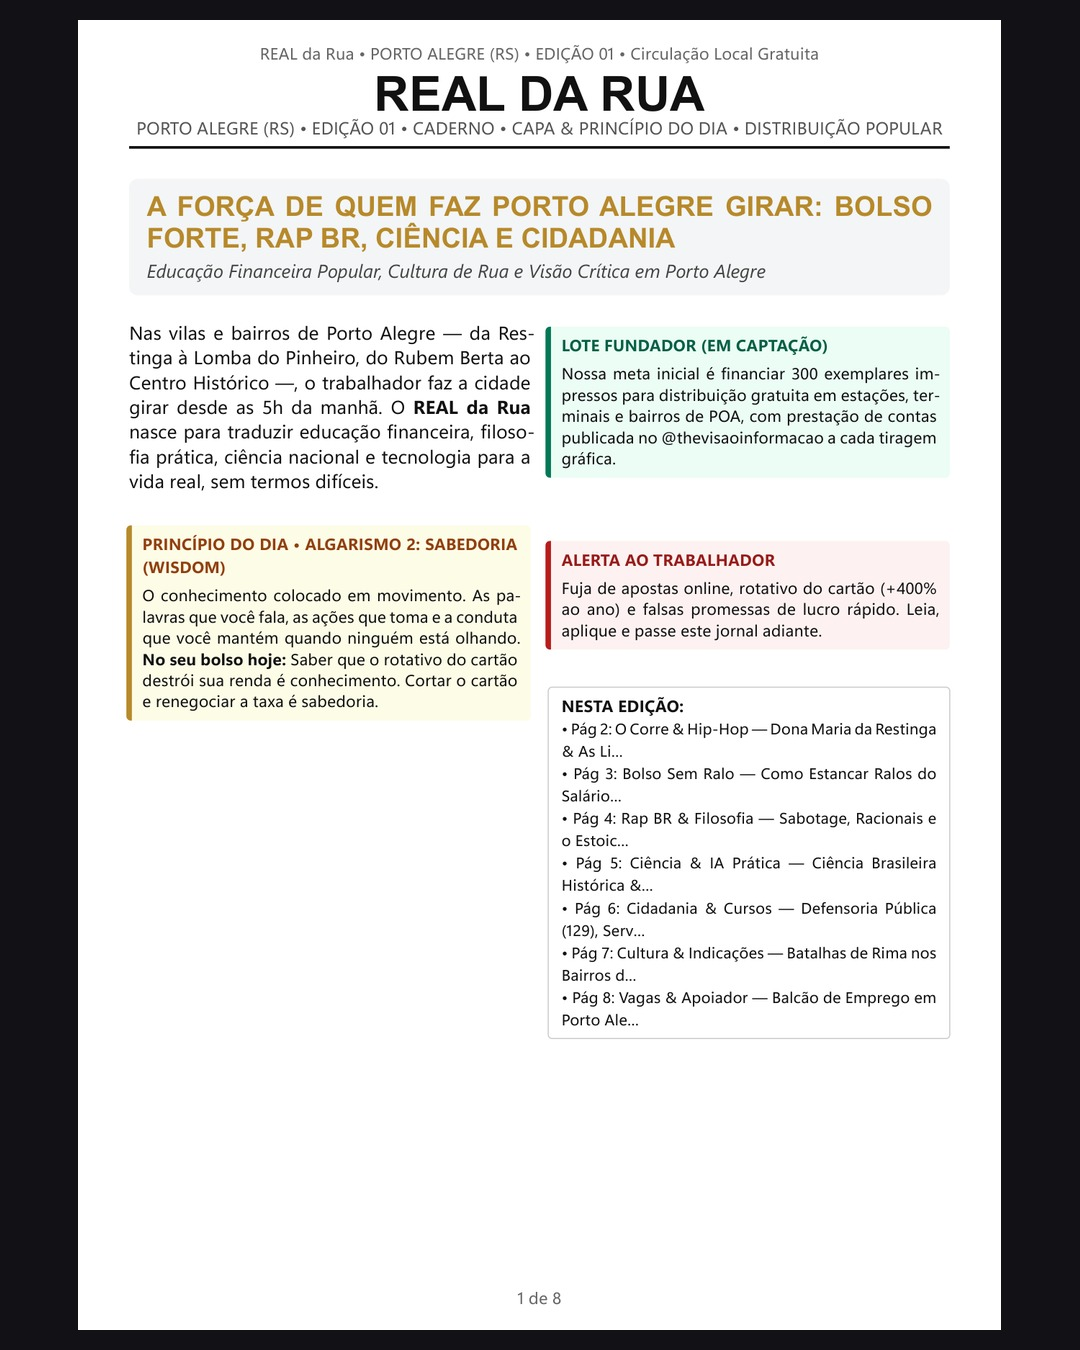
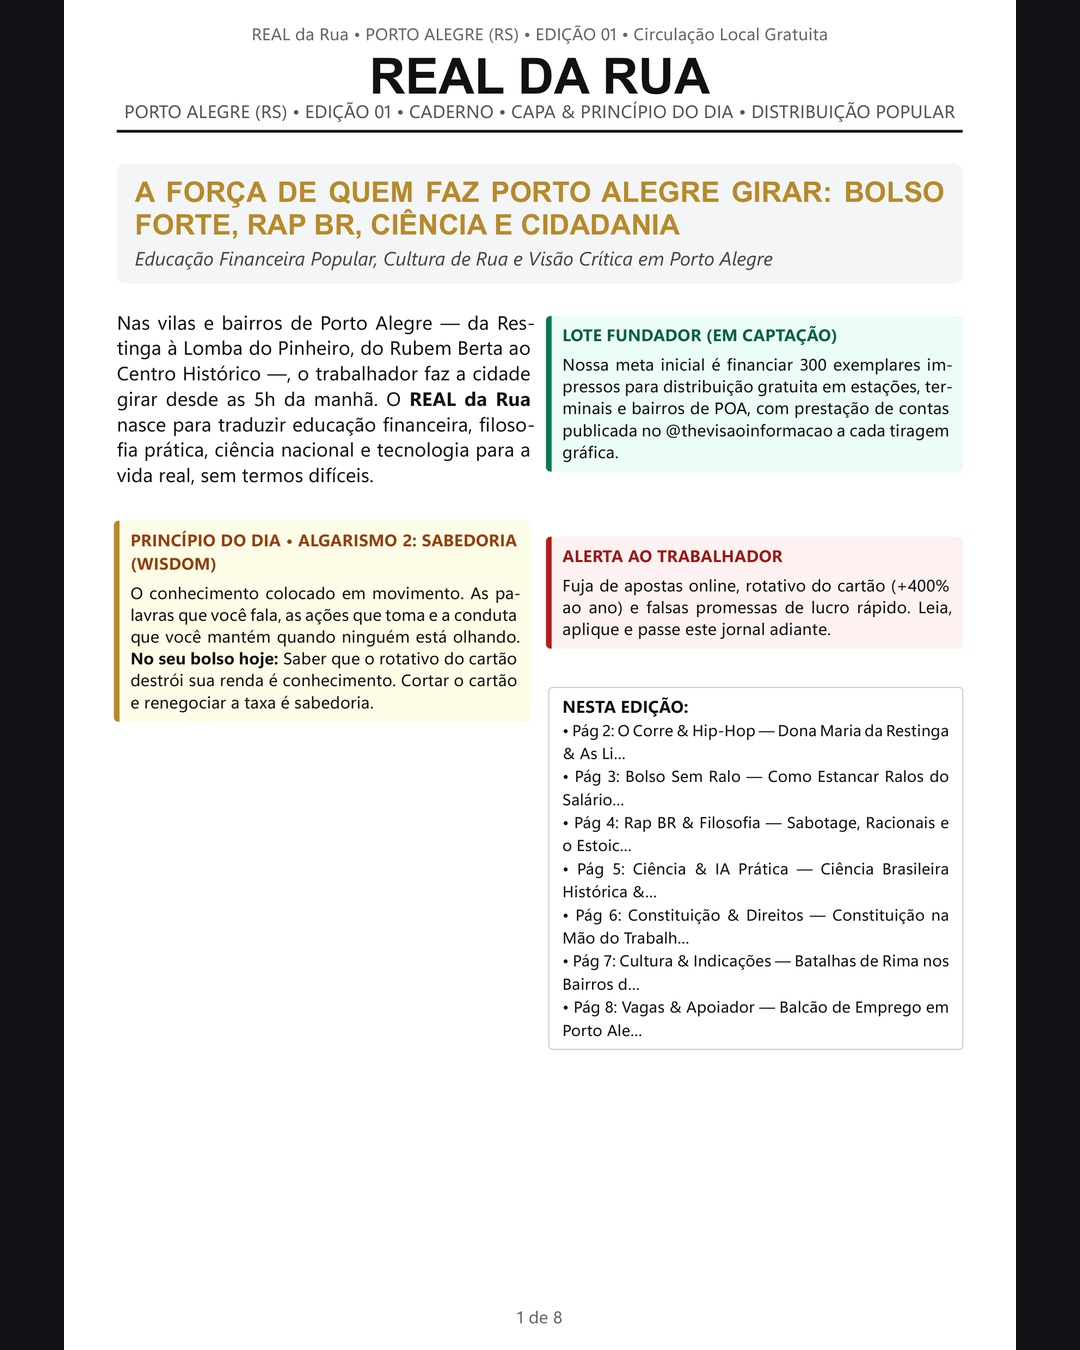
Jornal e LP: incluir caderno Constituicao Federal (Art. 5, 6, 7) e Direitos do Cidadao

Changed region(s): [[0.0611, 0.0, 0.9472, 1.0]]

diff --git a/do-primeiro-real/index.html b/do-primeiro-real/index.html
@@ -79,7 +79,7 @@
                     <p class="section-eyebrow">META INICIAL: 300 JORNAIS GRATUITOS EM POA</p>
                     <h3>O Jornal REAL da Rua <span class="gold-text">(Edição 01 — Porto Alegre)</span></h3>
                     <p>
-                        Enquanto os grandes jornais econômicos falam apenas para quem já tem milhões investidos, o <strong>Jornal REAL da Rua</strong> traduz economia prática, rap nacional, filosofia, ciência e tecnologia direto para quem acorda cedo e faz a cidade funcionar.
+                        Enquanto os grandes jornais econômicos falam apenas para quem já tem milhões investidos, o <strong>Jornal REAL da Rua</strong> traduz economia prática, Constituição e direitos do cidadão, rap nacional, filosofia, ciência e tecnologia direto para quem acorda cedo e faz a cidade funcionar.
                     </p>
                     <p>
                         Com 8 páginas diagramadas em padrão tabloide de bolso, a primeira edição reúne:
@@ -88,7 +88,7 @@
                         <li><span class="bullet">✓</span> <strong>Capa & Princípio do Dia:</strong> Impacto no bolso + Matemática Aplicada para a rotina.</li>
                         <li><span class="bullet">✓</span> <strong>Seu Bolso Sem Ralo & Rap/Filosofia:</strong> Escapando do rotativo de +400% a.a. e reflexão crítica de rua.</li>
                         <li><span class="bullet">✓</span> <strong>Ciência & IA no Celular:</strong> Uso prático e gratuito de tecnologia para currículo e contas.</li>
-                        <li><span class="bullet">✓</span> <strong>Cidadania & Apoio em POA:</strong> Defensoria RS (129), Fala POA (156), cursos IFRS/SENAI-RS e Sine.</li>
+                        <li><span class="bullet">✓</span> <strong>Constituição, Direitos & Apoio POA:</strong> Art. 5º, 6º e 7º da CF/88, CDC, Defensoria (129), 156, cursos IFRS/SENAI-RS e Sine.</li>
                     </ul>
                     <p style="font-size: 0.92rem; color: var(--emerald-light); font-weight: 600;">
                         Distribuição 100% gratuita para a população — viabilizada em captação pelo Lote Fundador do livro.

diff --git a/primeiro-real/index.html b/primeiro-real/index.html
@@ -79,7 +79,7 @@
                     <p class="section-eyebrow">META INICIAL: 300 JORNAIS GRATUITOS EM POA</p>
                     <h3>O Jornal REAL da Rua <span class="gold-text">(Edição 01 — Porto Alegre)</span></h3>
                     <p>
-                        Enquanto os grandes jornais econômicos falam apenas para quem já tem milhões investidos, o <strong>Jornal REAL da Rua</strong> traduz economia prática, rap nacional, filosofia, ciência e tecnologia direto para quem acorda cedo e faz a cidade funcionar.
+                        Enquanto os grandes jornais econômicos falam apenas para quem já tem milhões investidos, o <strong>Jornal REAL da Rua</strong> traduz economia prática, Constituição e direitos do cidadão, rap nacional, filosofia, ciência e tecnologia direto para quem acorda cedo e faz a cidade funcionar.
                     </p>
                     <p>
                         Com 8 páginas diagramadas em padrão tabloide de bolso, a primeira edição reúne:
@@ -88,7 +88,7 @@
                         <li><span class="bullet">✓</span> <strong>Capa & Princípio do Dia:</strong> Impacto no bolso + Matemática Aplicada para a rotina.</li>
                         <li><span class="bullet">✓</span> <strong>Seu Bolso Sem Ralo & Rap/Filosofia:</strong> Escapando do rotativo de +400% a.a. e reflexão crítica de rua.</li>
                         <li><span class="bullet">✓</span> <strong>Ciência & IA no Celular:</strong> Uso prático e gratuito de tecnologia para currículo e contas.</li>
-                        <li><span class="bullet">✓</span> <strong>Cidadania & Apoio em POA:</strong> Defensoria RS (129), Fala POA (156), cursos IFRS/SENAI-RS e Sine.</li>
+                        <li><span class="bullet">✓</span> <strong>Constituição, Direitos & Apoio POA:</strong> Art. 5º, 6º e 7º da CF/88, CDC, Defensoria (129), 156, cursos IFRS/SENAI-RS e Sine.</li>
                     </ul>
                     <p style="font-size: 0.92rem; color: var(--emerald-light); font-weight: 600;">
                         Distribuição 100% gratuita para a população — viabilizada em captação pelo Lote Fundador do livro.

diff --git a/do-primeiro-real/tracking-config.js b/do-primeiro-real/tracking-config.js
@@ -21,3 +21,4 @@ window.TVIN_TRACKING_CONFIG = {
     // Altere para true temporariamente apenas se quiser inspecionar eventos no Console (F12)
     debug: false
 };
+

diff --git a/primeiro-real/tracking-config.js b/primeiro-real/tracking-config.js
@@ -21,3 +21,4 @@ window.TVIN_TRACKING_CONFIG = {
     // Altere para true temporariamente apenas se quiser inspecionar eventos no Console (F12)
     debug: false
 };
+

diff --git a/do-primeiro-real/tracking.js b/do-primeiro-real/tracking.js
@@ -391,3 +391,4 @@
         }, 5000);
     });
 })();
+

diff --git a/primeiro-real/tracking.js b/primeiro-real/tracking.js
@@ -391,3 +391,4 @@
         }, 5000);
     });
 })();
+
